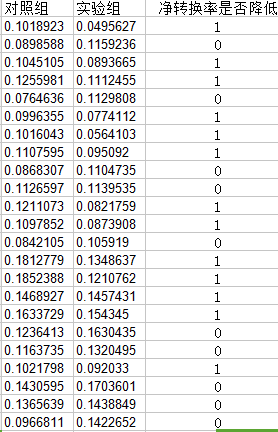
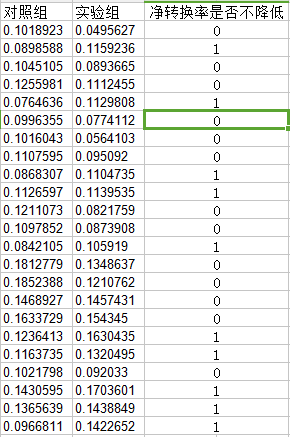
third project commit

diff --git a/P2 AB-Test/P2.md b/P2 AB-Test/P2.md
@@ -10,7 +10,7 @@
 
   >  **留存率**不能作为评估度量。因为在计算样本大小和持续时间时, 发现若将留存率作为评估度量, 所需要的样本数量太多, 成本过高, 所以将其排除。
 
-- 期望得到的结果: 总转化率显著降低、净转化率不会在很大程度上降低
+- 期望得到的结果: 总转化率显著降低、净转化率不降低
 
 ### 2. 测量标准偏差
 
@@ -127,9 +127,9 @@ $$SampleSize_{net-conversion} = \frac{27413\times 2}{3200/40000} =  685325$$
 通过结果分析得知:
 
 - **总转化率**统计性显著, 实际性显著, 并共同通过符号检验, 说明此种"改变"会显著减少因为没有足够时间而离开免费试学的学生数量。这符合我们的期望("从而减少因为没有足够的时间而离开免费试学, 并因此受挫的学生数量")
-- **净转换率**不满足统计性显著, 不满足实际性显著,  未通过符号检验,  置信区间包括负数, 说明此种"改变"有可能降低14天期限后仍参加课程的用户数量, 但是降低的程度不大。这符合我们的期望("同时不会在很大程度上减少继续通过免费试学和最终完成课程的学生数量")
+- **净转换率**不满足统计性显著, 不满足实际性显著,  未通过符号检验,  置信区间包括负数, 说明此种"改变"有95%的可能结果会落在(-0.0116, 0.0019), 很大概率上净转化率会减少, 这不符合我们的期望("净转换率不降低")
 
-我会启动这个试验。因为通过以上分析，这种"改变"显著减少了因为没有足够的时间而离开免费试学, 并因此受挫的学生数量, 同时不会在很大程度上减少继续通过免费试学和最终完成课程的学生数量。这满足我们实验的期望。
+我不会启动这个试验。因为通过以上分析，这种"改变"显著减少了因为没有足够的时间而离开免费试学, 并因此受挫的学生数量, 但是有很大可能会降低净转化率，即通过免费试学和最终完成课程的学生数量。这不满足我们实验的期望。
 
 ### 9. 后续试验
 
